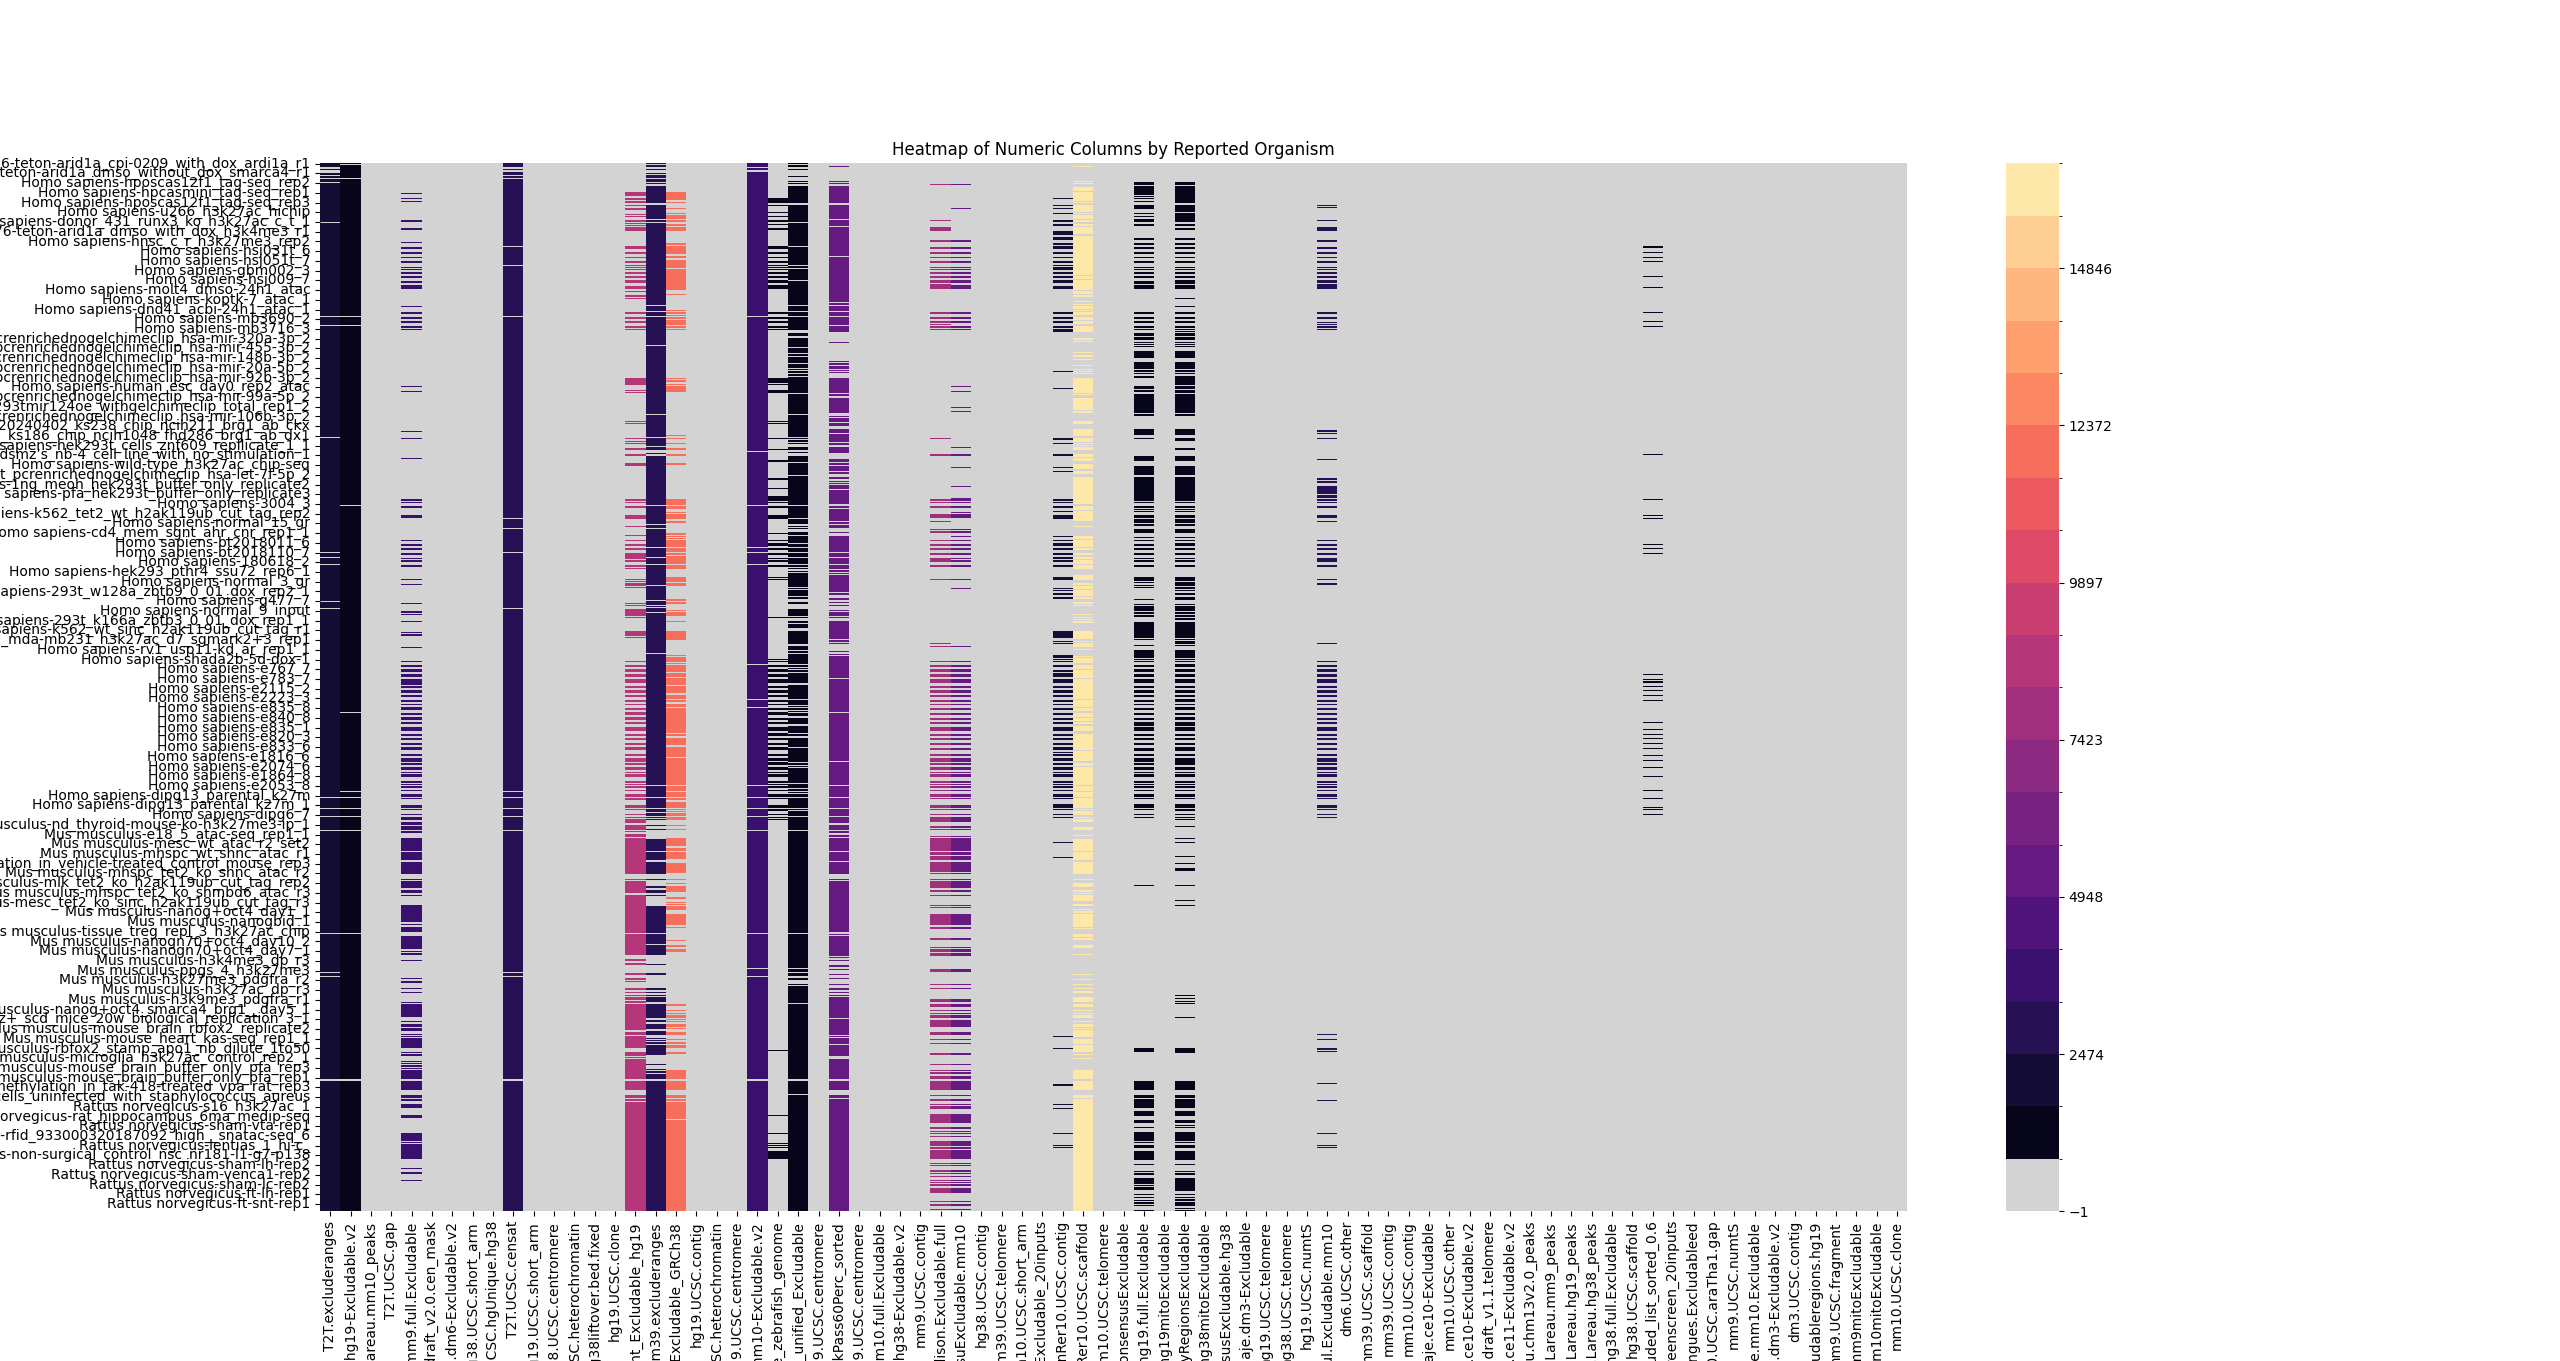
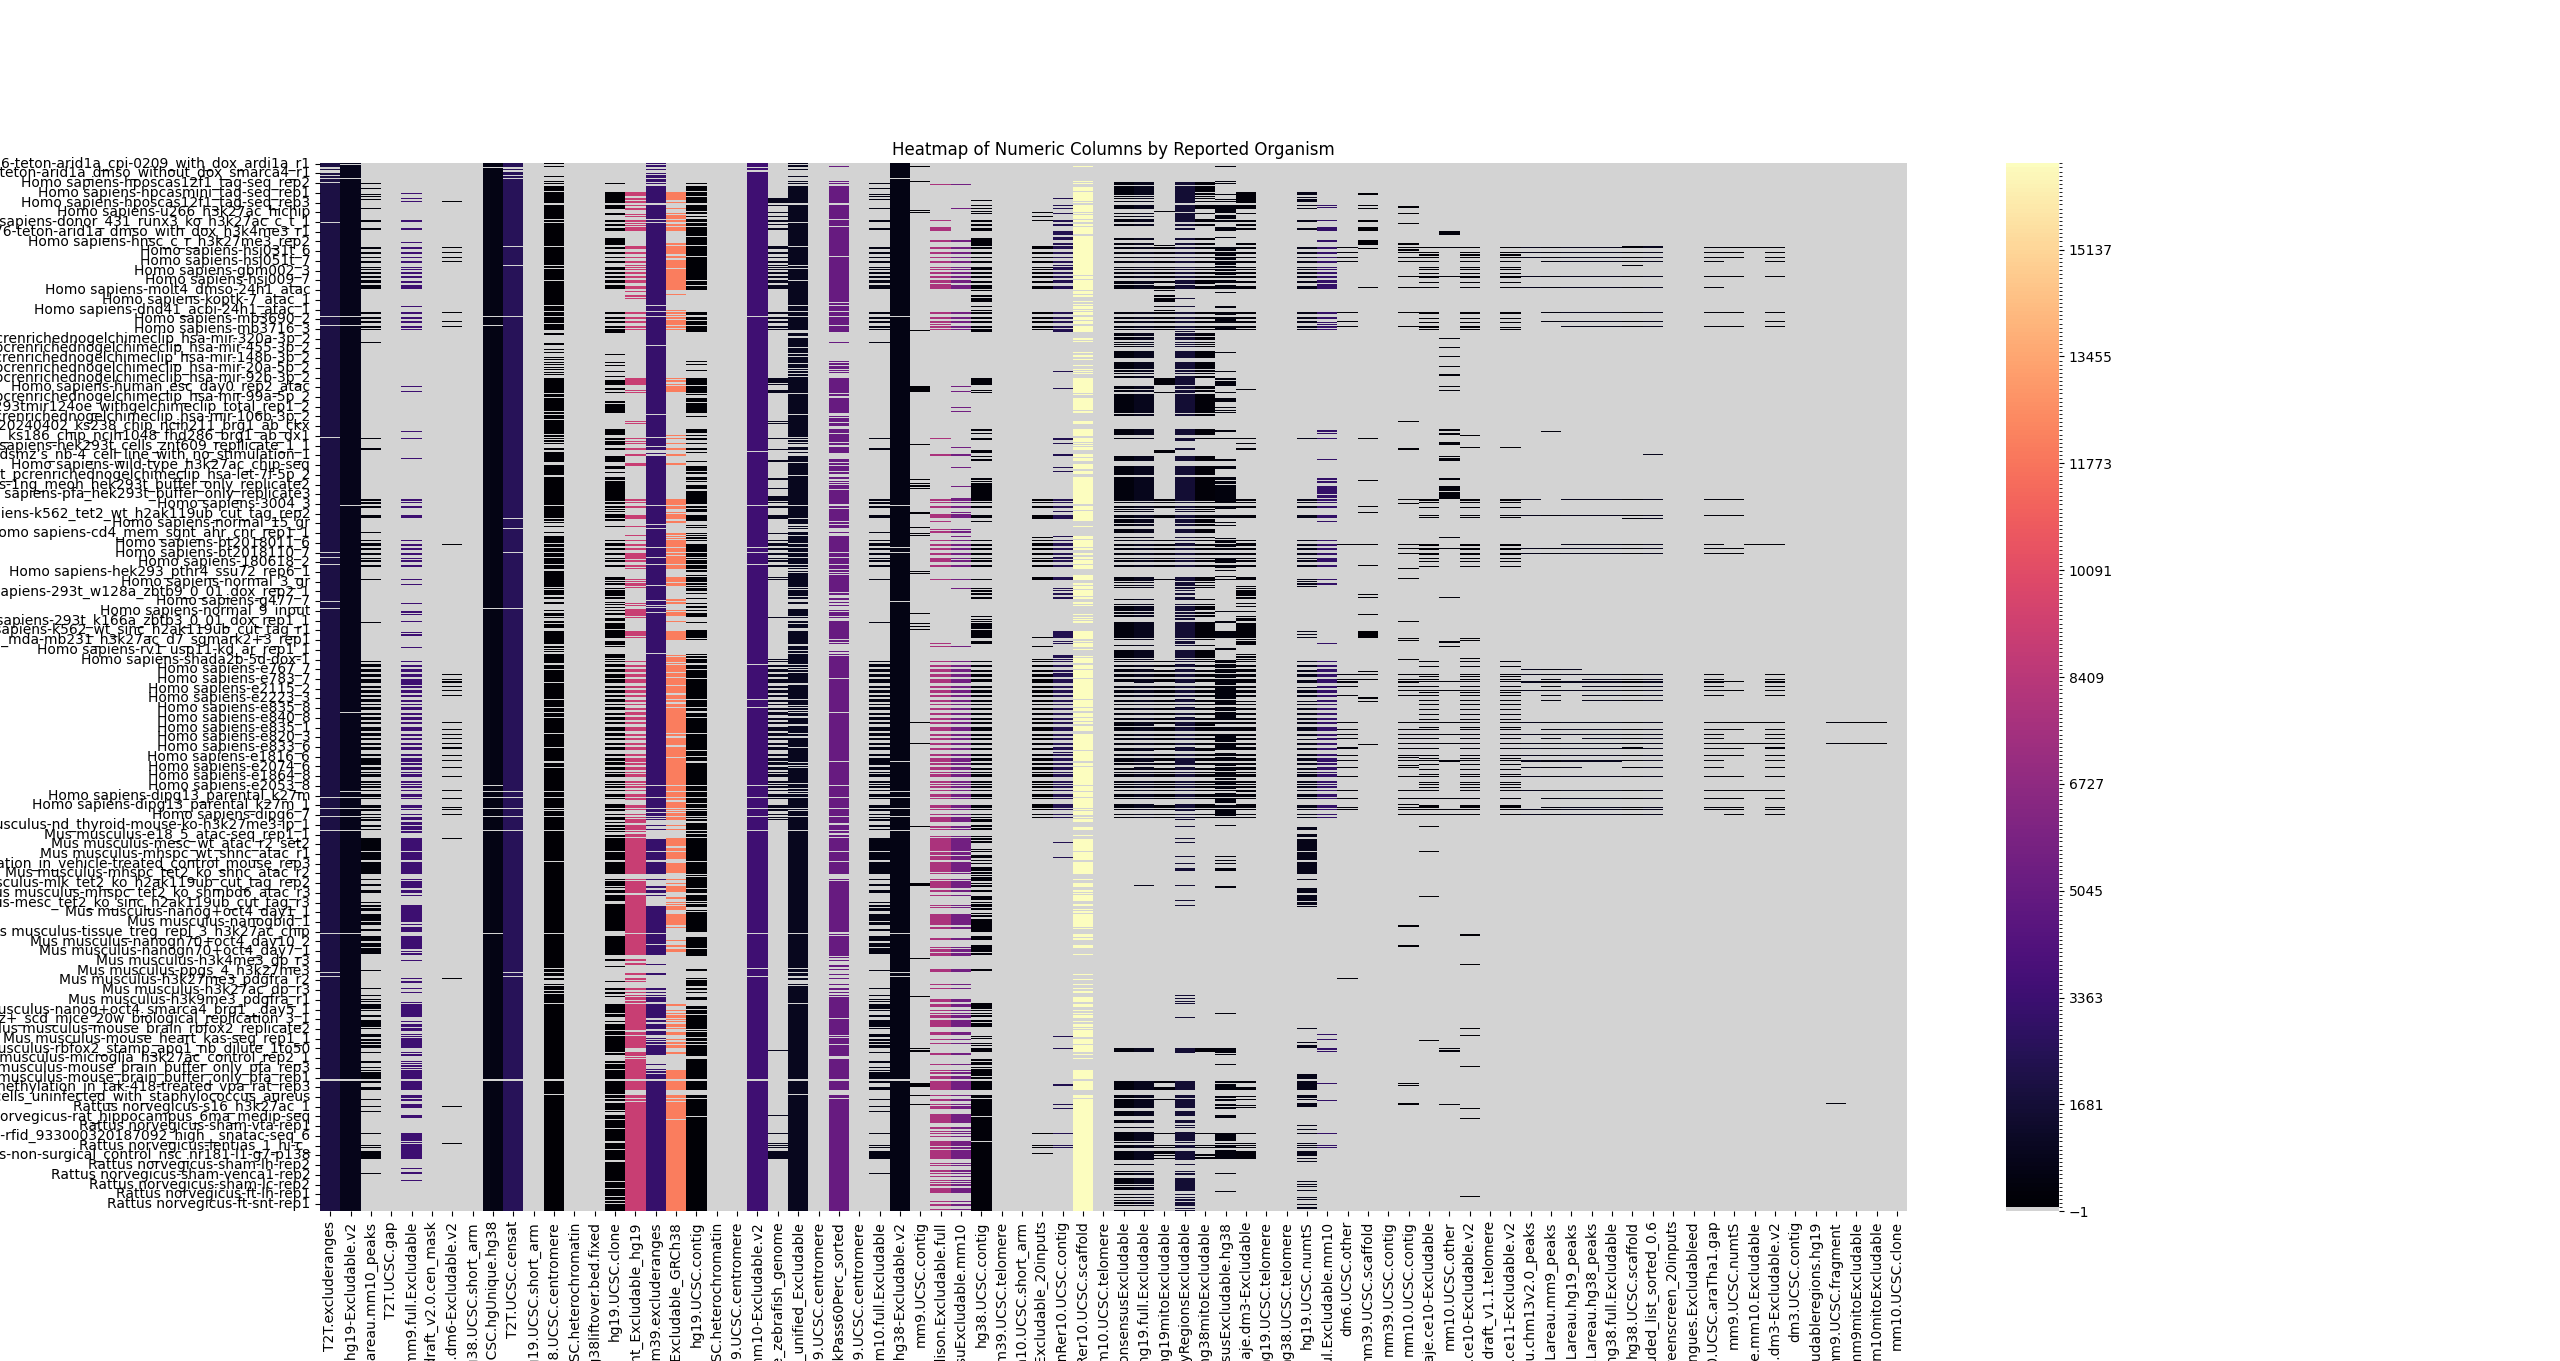
update to use more bins when producing heatmap

diff --git a/scripts/ref_genome_validating/stats_exclude_ranges_results.py b/scripts/ref_genome_validating/stats_exclude_ranges_results.py
@@ -115,7 +115,7 @@ def create_heatmap(df, columns):
     #
     # processed_df = processed_df.rename(columns=columns)
 
-    num_bins = 20
+    num_bins = 255
 
     min_val = processed_df[desired_columns].min().min()
     max_val = processed_df[desired_columns].max().max()
